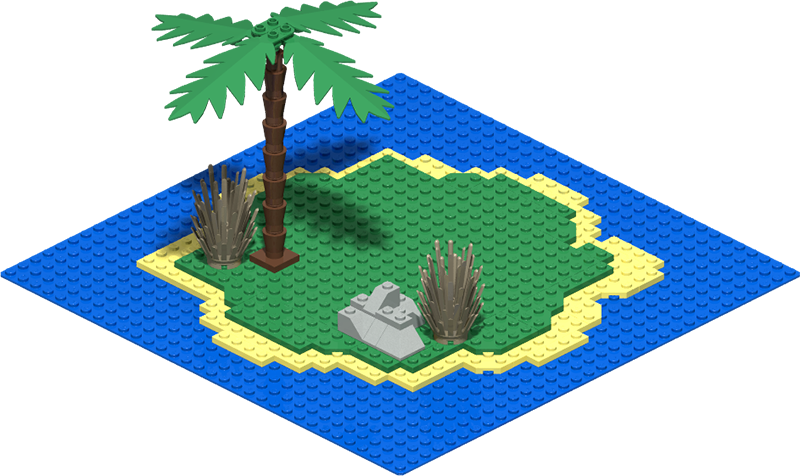
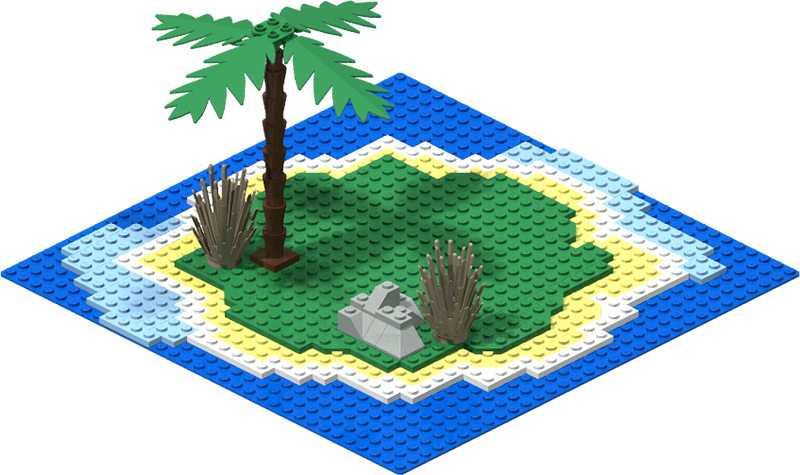
Various

diff --git a/index.html b/index.html
@@ -77,7 +77,7 @@
     <section id="top" class="text-center">
       <div class="row vw-100">
         <div class="col-md-12 col-sm-12 mx-auto">
-          <svg version="1.1" xmlns="http://www.w3.org/2000/svg" xmlns:xlink="http://www.w3.org/1999/xlink" viewBox="0 0 2400 1600" overflow="scroll">
+          <svg version="1.1" xmlns="http://www.w3.org/2000/svg" xmlns:xlink="http://www.w3.org/1999/xlink" viewBox="0 0 2400 3224" overflow="scroll">
             
             <!-- R1 [-201] -->
             <image width="800" height="403" x="-400" y="-201" xlink:href="images/lots/sea.png"></image>
@@ -90,30 +90,97 @@
             <image width="800" height="403" x="1600" y="0" xlink:href="images/lots/sea.png"></image>
             <!-- R3 [201] -->
             <image width="800" height="403" x="-400" y="201" xlink:href="images/lots/sea.png"></image>
-            <image width="800" height="476"  x="400" y="128" xlink:href="images/lots/first_island2.png"></image>
+            <image width="800" height="476"  x="400" y="128" xlink:href="images/lots/first_island.png"></image>
             <image width="800" height="533" x="1200" y="71" xlink:href="images/lots/boat.png"></image>
-            <!-- <image width="800" height="403" x="2000" y="201" xlink:href="images/lots/sea.png"></image> -->
+            <image width="800" height="403" x="2000" y="201" xlink:href="images/lots/sea.png"></image>
             <!-- R4 [402] -->
-            <image width="800" height="403" x="0" y="402" xlink:href="images/lots/speedboat.png"></image>
+            <image width="800" height="403" x="0" y="402" xlink:href="images/lots/sea.png"></image>
             <image width="800" height="403" x="800" y="402" xlink:href="images/lots/sea.png"></image>
-            <!-- <image width="800" height="403" x="1600" y="402" xlink:href="images/lots/sea.png"></image> -->
+            <image width="800" height="403" x="1600" y="402" xlink:href="images/lots/sea.png"></image>
             
             <!-- R5 [603] -->
             <image width="800" height="403" x="-400" y="603" xlink:href="images/lots/sea.png"></image>
             <image width="800" height="403" x="400" y="603" xlink:href="images/lots/sea.png"></image>
-            <!-- <image width="800" height="403" x="1200" y="603" xlink:href="images/lots/sea.png"></image> -->
-            <!-- <image width="800" height="403" x="2000" y="603" xlink:href="images/lots/sea.png"></image> -->
+            <image width="800" height="403" x="1200" y="603" xlink:href="images/lots/sea.png"></image>
+            <image width="800" height="403" x="2000" y="603" xlink:href="images/lots/sea.png"></image>
             
             <!-- R6 [804] -->
             <image width="800" height="403" x="0" y="804" xlink:href="images/lots/sea.png"></image>
+            <image width="800" height="403" x="800" y="804" xlink:href="images/lots/sea.png"></image>
+            <!-- <image width="800" height="874" x="800" y="333" xlink:href="images/lots/building.png"></image> -->
+            <image width="800" height="403" x="1600" y="804" xlink:href="images/lots/sea.png"></image>
+            
 
             <!-- R7 [1005] -->
             <image width="800" height="403" x="-400" y="1005" xlink:href="images/lots/sea.png"></image>
+            <image width="800" height="403" x="400" y="1005" xlink:href="images/lots/sea.png"></image>
+            <image width="800" height="403" x="1200" y="1005" xlink:href="images/lots/sea.png"></image>
+            <image width="800" height="403" x="2000" y="1005" xlink:href="images/lots/sea.png"></image>
 
+            <!-- R8 [1206] -->
+            <image width="800" height="403" x="0" y="1206" xlink:href="images/lots/sea.png"></image>
+            <image width="800" height="403" x="800" y="1206" xlink:href="images/lots/sea.png"></image>
+            <image width="800" height="403" x="1600" y="1206" xlink:href="images/lots/sea.png"></image>
+
+            <!-- R9 [1407] -->
+            <image width="800" height="403" x="-400" y="1407" xlink:href="images/lots/sea.png"></image>
+            <image width="800" height="403" x="400" y="1407" xlink:href="images/lots/sea.png"></image>
+            <image width="800" height="403" x="1200" y="1407" xlink:href="images/lots/sea.png"></image>
+            <image width="800" height="403" x="2000" y="1407" xlink:href="images/lots/sea.png"></image>
+
+            <!-- R10 [1608] -->
+            <image width="800" height="403" x="0" y="1608" xlink:href="images/lots/speedboat.png"></image>
+            <image width="800" height="403" x="800" y="1608" xlink:href="images/lots/sea.png"></image>
+            <image width="800" height="403" x="1600" y="1608" xlink:href="images/lots/sea.png"></image>
+
+            <!-- R11 [1809] -->
+            <image width="800" height="403" x="-400" y="1809" xlink:href="images/lots/sea.png"></image>
+            <image width="800" height="403" x="400" y="1809" xlink:href="images/lots/sea.png"></image>
+            <image width="800" height="403" x="1200" y="1809" xlink:href="images/lots/sea.png"></image>
+            <image width="800" height="403" x="2000" y="1809" xlink:href="images/lots/sea.png"></image>
+
+            <!-- R12 [2010] -->
+            <image width="800" height="403" x="0" y="2010" xlink:href="images/lots/sea.png"></image>
+            <image width="800" height="403" x="800" y="2010" xlink:href="images/lots/sea.png"></image>
+            <image width="800" height="403" x="1600" y="2010" xlink:href="images/lots/sea.png"></image>
+
+            <!-- R13 [2211] -->
+            <image width="800" height="403" x="-400" y="2211" xlink:href="images/lots/sea.png"></image>
+            <image width="800" height="403" x="400" y="2211" xlink:href="images/lots/sea.png"></image>
+            <image width="800" height="403" x="1200" y="2211" xlink:href="images/lots/sea.png"></image>
+            <image width="800" height="403" x="2000" y="2211" xlink:href="images/lots/sea.png"></image>
+
+            <!-- R14 [2412] -->
+            <image width="800" height="403" x="0" y="2412" xlink:href="images/lots/sea.png"></image>
+            <image width="800" height="403" x="800" y="2412" xlink:href="images/lots/sea.png"></image>
+            <image width="800" height="403" x="1600" y="2412" xlink:href="images/lots/sea.png"></image>
+            
+            <!-- R15 [2613] -->
+            <image width="800" height="403" x="-400" y="2613" xlink:href="images/lots/sea.png"></image>
+            <image width="800" height="403" x="400" y="2613" xlink:href="images/lots/sea.png"></image>
+            <image width="800" height="403" x="1200" y="2613" xlink:href="images/lots/sea.png"></image>
+            <image width="800" height="403" x="2000" y="2613" xlink:href="images/lots/sea.png"></image>
+
+            <!-- R16 [2814] -->
+            <image width="800" height="403" x="0" y="2814" xlink:href="images/lots/sea.png"></image>
+            <image width="800" height="403" x="800" y="2814" xlink:href="images/lots/sea.png"></image>
+            <image width="800" height="403" x="1600" y="2814" xlink:href="images/lots/sea.png"></image>
+
+            <!-- R17 [3015] -->
+            <image width="800" height="403" x="-400" y="3015" xlink:href="images/lots/sea.png"></image>
+            <image width="800" height="403" x="400" y="3015" xlink:href="images/lots/sea.png"></image>
+            <image width="800" height="403" x="1200" y="3015" xlink:href="images/lots/sea.png"></image>
+            <image width="800" height="403" x="2000" y="3015" xlink:href="images/lots/sea.png"></image>
 
             <!-- Links -->
-            <a xlink:href="https://www.yahoo.com" target="_blank" >
-              <path d="M800 201 L1200 402 L800 603 L400 402 Z" style="fill:rgba(255, 0, 0, 0);" />
+            <a xlink:href="for_sale.html" target="_blank" class="appear">
+              <path d="M800 201 L1200 402 L800 603 L400 402 Z" style="fill:rgba(0, 0, 0, 0.5);stroke:red;stroke-width:10;"></path>
+            </a>
+            <a xlink:href="for_sale.html" target="_blank" class="appear">
+              <path d="M1600 201 L2000 402 L1600 603 L1200 402 Z" style="fill:rgba(0, 0, 0, 0.5);stroke:red;stroke-width:10;"></path>
+            </a>
+            <a xlink:href="for_sale.html" target="_blank" class="appear">
+              <path d="M400 1608 L800 1809 L400 2010 L000 1809 Z" style="fill:rgba(0, 0, 0, 0.5);stroke:red;stroke-width:10;"></path>
             </a>
           </svg>
           <!-- <img src="images/lots/First Island.png"/> -->
@@ -124,10 +191,6 @@
 
   <script src="https://cdn.jsdelivr.net/npm/bootstrap@4.1.3/dist/js/bootstrap.min.js" integrity="sha384-ChfqqxuZUCnJSK3+MXmPNIyE6ZbWh2IMqE241rYiqJxyMiZ6OW/JmZQ5stwEULTy" crossorigin="anonymous"></script>
 </script>
-
-
-
-
 
 </body>
 

diff --git a/nav.html b/nav.html
@@ -12,7 +12,7 @@
             <a class="nav-link" href="./index.html#top">Home</a>
           </li>
           <li class="nav-item">
-            <a class="nav-link" href="./news.html">News</a>
+            <a class="nav-link" href="./for_sale.html">For Sale</a>
           </li>
           <!-- 
           <li class="nav-item">

diff --git a/css/style.css b/css/style.css
@@ -25,3 +25,13 @@ a {
 .row {
   --bs-gutter-x: 0rem;
 }
+
+.appear:hover{
+  opacity: 1;
+}
+
+.appear {
+  opacity: 0;
+  transition: .5s ease;
+  
+}
